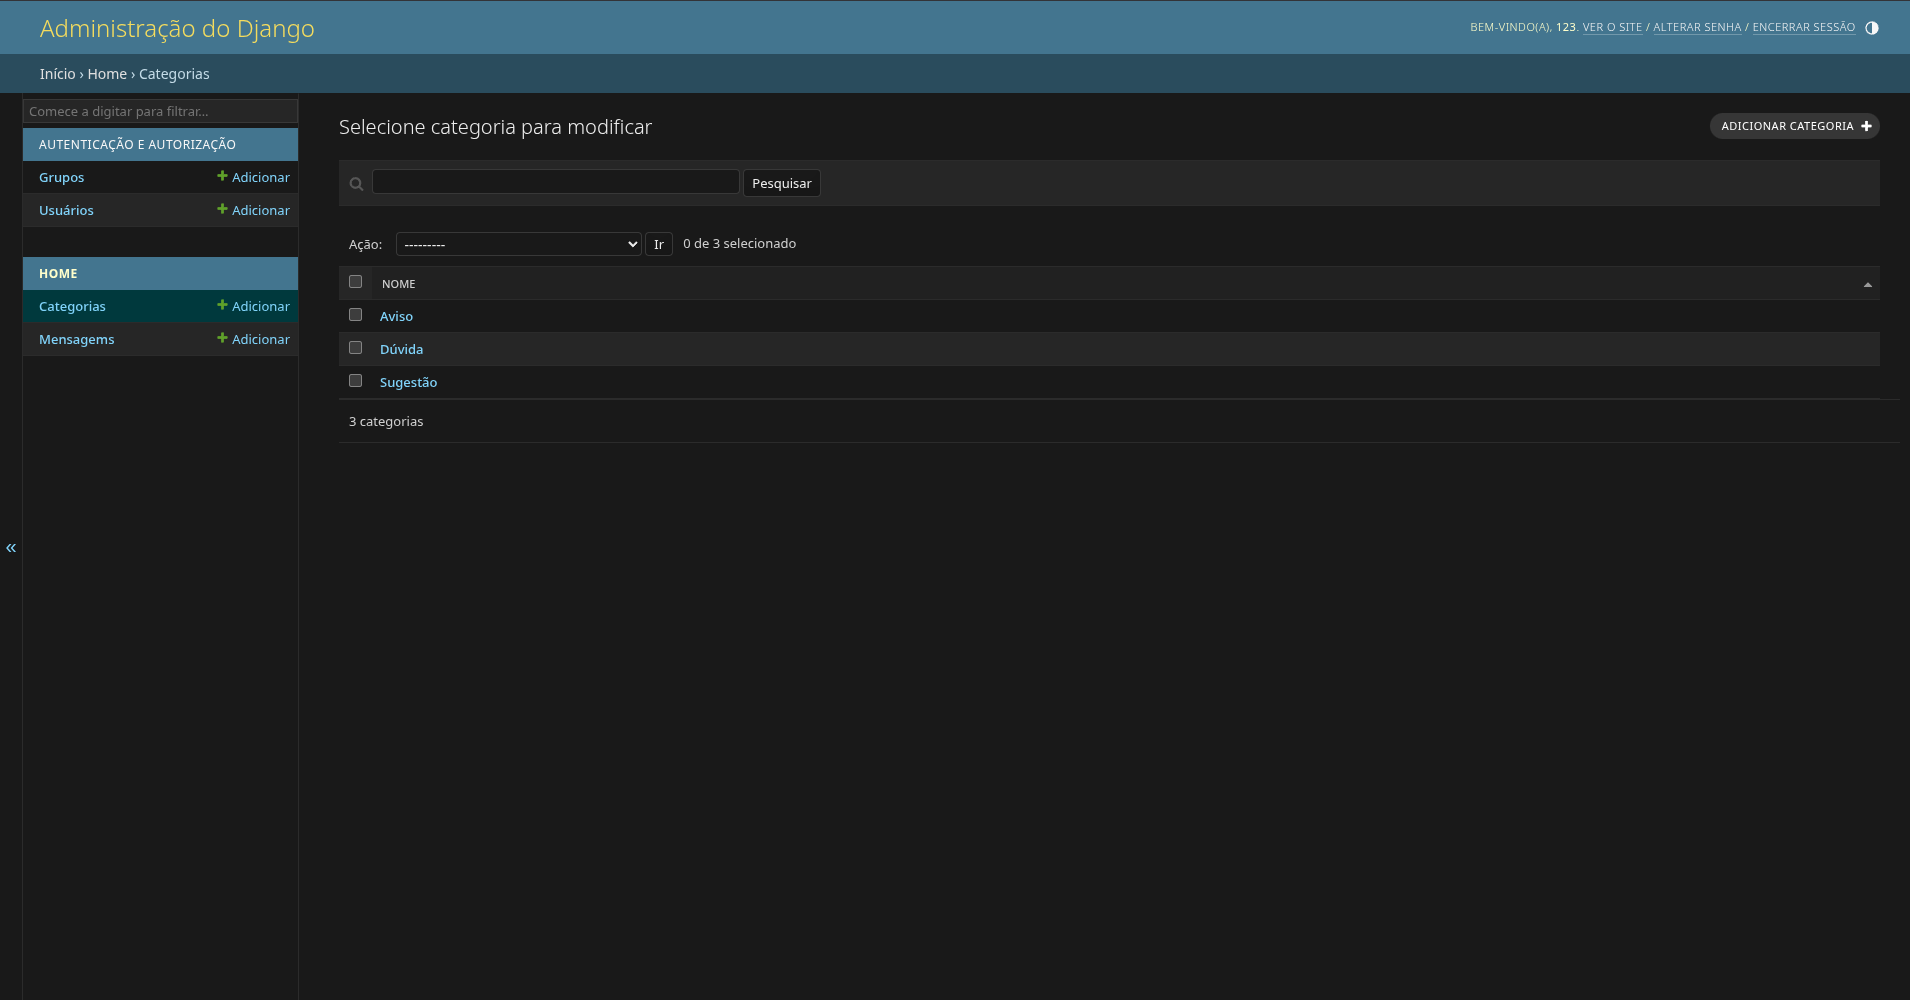
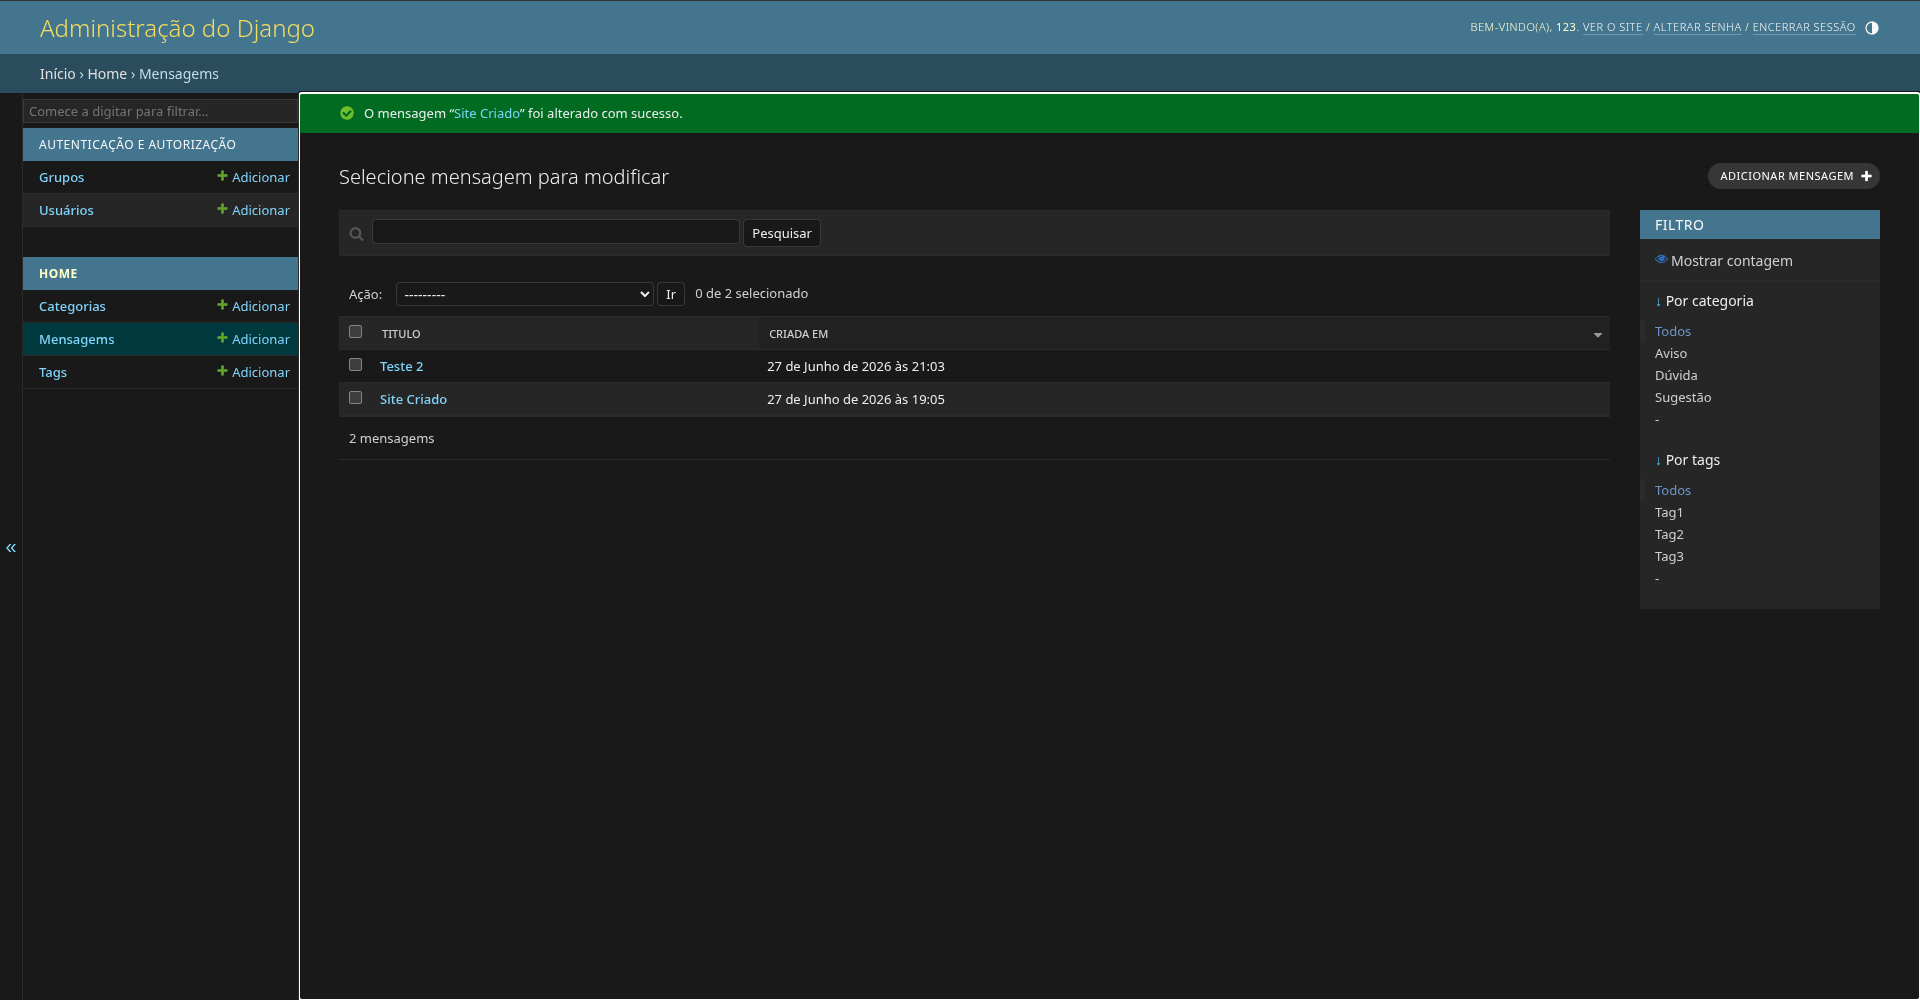
readme

diff --git a/README.md b/README.md
@@ -9,7 +9,7 @@ Este é um projeto de demonstração desenvolvido para a aula de **Programação
 Aqui estão algumas capturas de tela do projeto em funcionamento:
 
 ### Página Inicial
-A interface exibe as mensagens do banco de dados de forma responsiva, com efeitos interativos como zoom ao passar o mouse (`hover:scale-105`) e animações.
+A interface exibe as mensagens do banco de dados de forma responsiva, com efeitos interativos como zoom ao passar o mouse (`hover:scale-105`) e animações, exibe também as tags e categorias das mensagens.
 
 ![Landing Page](./images/image.png)
 
@@ -20,7 +20,7 @@ Outra visualização do projeto demonstrando a estrutura de navegação e estili
 ![Página Sobre](./images/Captura_de_tela_20260627_205352.png)
 
 ### Página Admin 
-Modelos Categoria e Mensagem criados:
+Modelos Categoria, Tag e Mensagem criados:
 
 
 ![Admin](./images/db.png)
